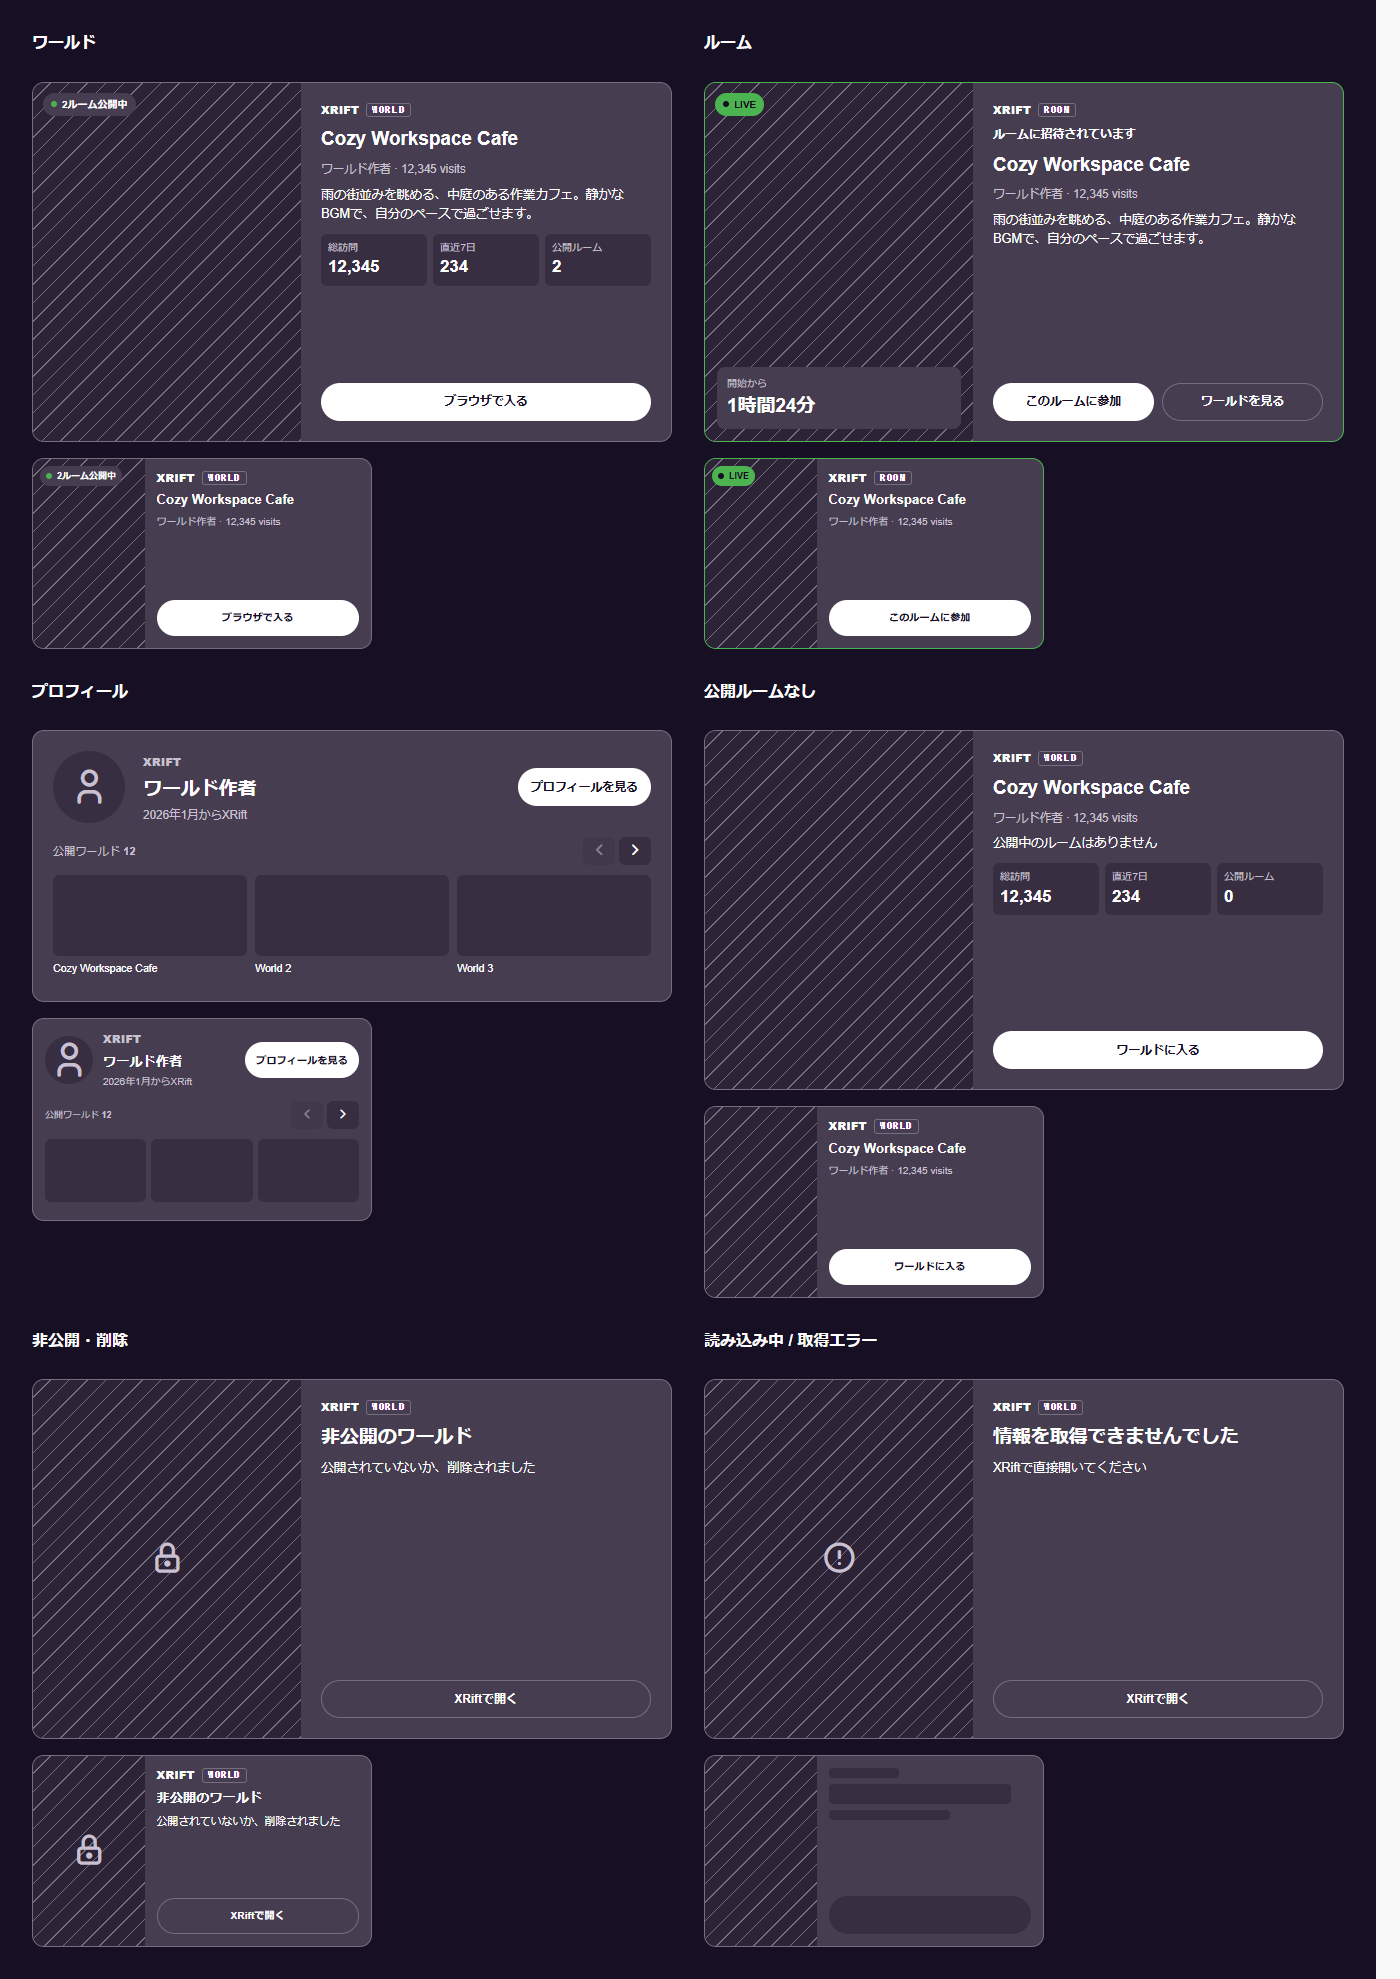
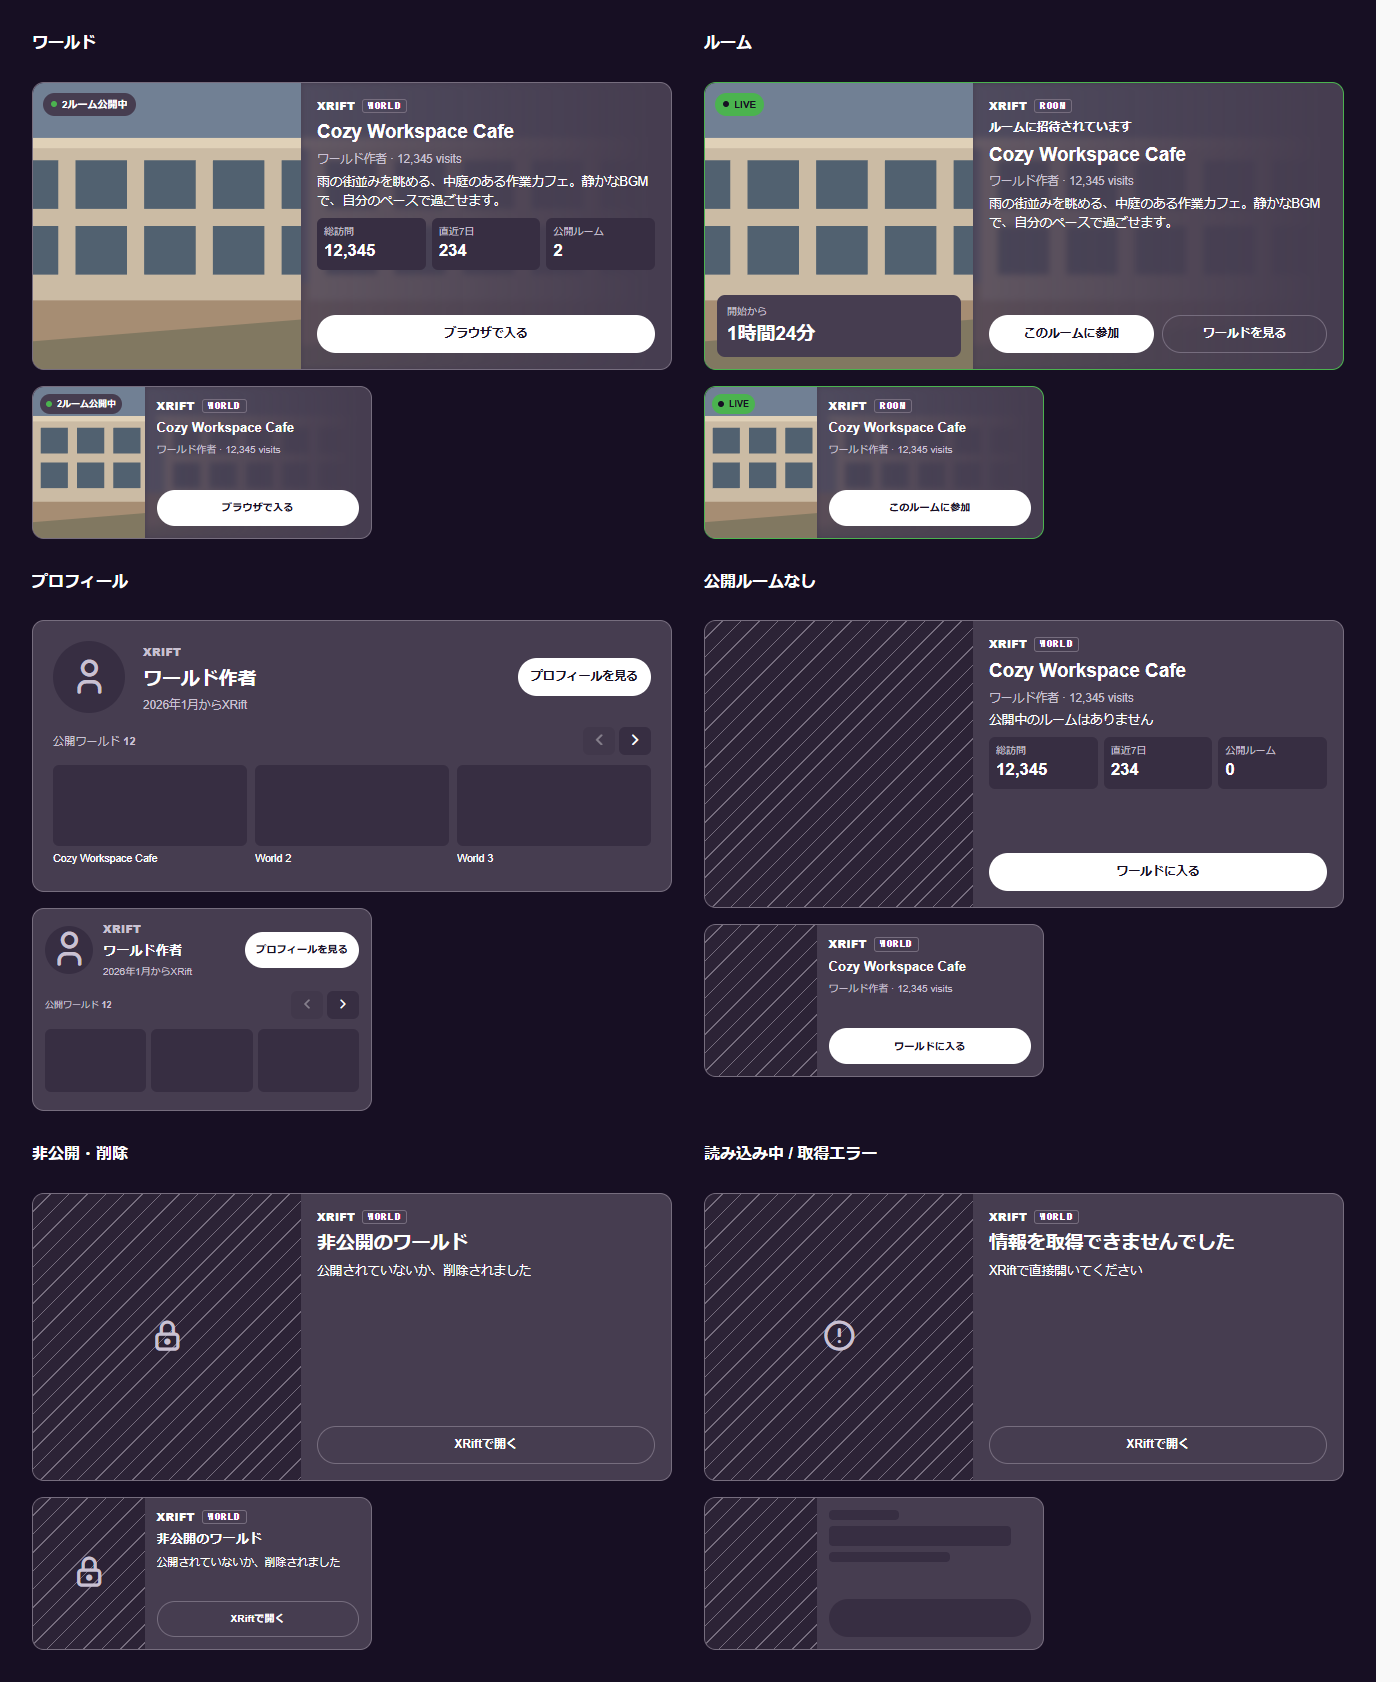
style(gridspace): shorten XRift cards and add thumbnail backdrops

Changed region(s): [[0.0, 0.0, 0.9829, 0.9893], [0.3686, 0.371, 0.4607, 0.4328], [0.86, 0.4328, 0.8907, 0.4637]]

diff --git a/packages/frontend/src/components/MkXriftPreview.vue b/packages/frontend/src/components/MkXriftPreview.vue
@@ -5,7 +5,7 @@ SPDX-License-Identifier: AGPL-3.0-only
 
 <template>
 <div :class="$style.root">
-	<article :class="[$style.card, { [$style.profileSize]: type === 'user', [$style.profile]: type === 'user' && state === 'available' && !loading, [$style.live]: isLive }]" :aria-busy="loading">
+	<article :class="[$style.card, { [$style.landscape]: type !== 'user', [$style.profileSize]: type === 'user', [$style.profile]: type === 'user' && state === 'available' && !loading, [$style.live]: isLive }]" :aria-busy="loading">
 		<template v-if="type === 'user' && state === 'available' && !loading">
 			<div :class="$style.profileHeading">
 				<div :class="$style.avatar">
@@ -46,6 +46,7 @@ SPDX-License-Identifier: AGPL-3.0-only
 				<div v-if="isLive && elapsed" :class="$style.elapsed"><small>{{ i18n.ts._xriftPreview.started }}</small><strong>{{ elapsed }}</strong></div>
 			</div>
 			<div :class="$style.body">
+				<img v-if="imageVisible && state === 'available' && !loading" :src="summary?.thumbnail ?? undefined" alt="" aria-hidden="true" :class="$style.bodyBackdrop" loading="lazy" @error="imageFailed = true"/>
 				<template v-if="loading">
 					<span :class="$style.srOnly" role="status">{{ i18n.ts.loading }}</span>
 					<div :class="[$style.skeleton, $style.skeletonBrand]"></div>
@@ -182,6 +183,7 @@ function hideFailedImage(event: Event): void {
 	background: var(--xrift-panel);
 	font-size: 14px;
 	&.live { border-color: var(--xrift-live); }
+	&.landscape { aspect-ratio: 20 / 9; }
 }
 .visual {
 	position: relative;
@@ -192,21 +194,22 @@ function hideFailedImage(event: Event): void {
 }
 .visualIcon { position: absolute; inset: 0; display: flex; align-items: center; justify-content: center; font-size: 28px; color: var(--xrift-muted); }
 .placeholder { background: repeating-linear-gradient(135deg, var(--xrift-visual), var(--xrift-visual) 12px, var(--xrift-border) 12px, var(--xrift-border) 13px); }
-.body { min-width: 0; padding: 20px; display: flex; flex-direction: column; gap: 9px; overflow: hidden; }
-.brandRow { display: flex; align-items: center; gap: 7px; }
+.body { position: relative; isolation: isolate; min-width: 0; padding: 16px; display: flex; flex-direction: column; gap: 6px; overflow: hidden; }
+.bodyBackdrop { position: absolute; z-index: -1; inset: 0; width: 100%; height: 100%; object-fit: cover; opacity: 0.2; filter: blur(3px); mask-image: linear-gradient(to right, black, transparent 95%); pointer-events: none; }
+.brandRow { display: flex; align-items: center; gap: 7px; flex-shrink: 0; }
 .brand { font-size: 11px; font-weight: 800; letter-spacing: 0.03em; }
 .type { padding: 1px 5px; border: 1px solid var(--xrift-border); border-radius: 3px; font: 700 9px/1.2 monospace; letter-spacing: 0.06em; }
-.title { margin: 0; font-size: 1.35em; line-height: 1.35; font-weight: 750; overflow-wrap: anywhere; display: -webkit-box; -webkit-box-orient: vertical; -webkit-line-clamp: 2; overflow: hidden; }
-.meta { margin: 0; color: var(--xrift-muted); font-size: 0.83em; overflow: hidden; text-overflow: ellipsis; white-space: nowrap; }
-.description { margin: 0; font-size: 0.9em; line-height: 1.55; white-space: pre-line; overflow-wrap: anywhere; display: -webkit-box; -webkit-box-orient: vertical; -webkit-line-clamp: 2; overflow: hidden; }
-.invitation { margin: 0; font-size: 0.85em; font-weight: bold; }
+.title { flex-shrink: 0; margin: 0; font-size: 1.35em; line-height: 1.35; font-weight: 750; overflow-wrap: anywhere; display: -webkit-box; -webkit-box-orient: vertical; -webkit-line-clamp: 2; overflow: hidden; }
+.meta { flex-shrink: 0; margin: 0; color: var(--xrift-muted); font-size: 0.83em; overflow: hidden; text-overflow: ellipsis; white-space: nowrap; }
+.description { min-height: 0; margin: 0; font-size: 0.9em; line-height: 1.55; white-space: pre-line; overflow-wrap: anywhere; display: -webkit-box; -webkit-box-orient: vertical; -webkit-line-clamp: 2; overflow: hidden; }
+.invitation { flex-shrink: 0; margin: 0; font-size: 0.85em; font-weight: bold; }
 .stats {
-	display: flex; gap: 6px; margin: 0;
+	display: flex; flex-shrink: 0; gap: 6px; margin: 0;
 	> div { flex: 1; min-width: 0; padding: 7px; background: var(--xrift-well); border-radius: 6px; }
 	dt { color: var(--xrift-muted); font-size: 0.72em; white-space: nowrap; }
 	dd { margin: 2px 0 0; font-size: 1.2em; font-weight: bold; font-variant-numeric: tabular-nums; }
 }
-.actions { display: flex; gap: 8px; margin-top: auto; padding-top: 8px; }
+.actions { display: flex; flex-shrink: 0; gap: 8px; margin-top: auto; padding-top: 4px; }
 .button {
 	display: flex; align-items: center; justify-content: center; min-width: 0; min-height: 38px; box-sizing: border-box; flex: 1;
 	padding: 8px 12px; border: 1px solid var(--xrift-border); border-radius: 999px; color: inherit;

diff --git a/packages/frontend/test/unit/xrift-preview.test.ts b/packages/frontend/test/unit/xrift-preview.test.ts
@@ -72,4 +72,9 @@ describe('XRift cards', () => {
 			expect(view.queryAllByRole('img')).toHaveLength(0);
 		} finally { preferState.dataSaver = saved; }
 	});
+	test('hides both the main thumbnail and decorative backdrop for sensitive worlds', () => {
+		const summary = { ...World.args.summary, thumbnail: 'https://media.example/image', sensitive: true };
+		const view = render(MkXriftPreview, { props: { ...World.args, summary } });
+		expect(view.container.querySelectorAll('img')).toHaveLength(0);
+	});
 });
